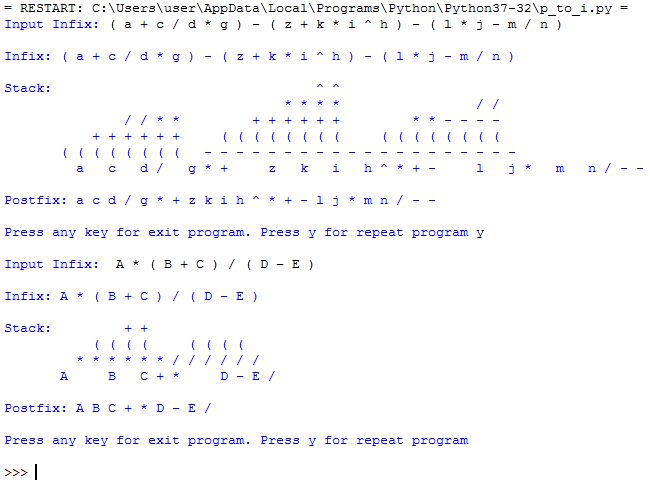
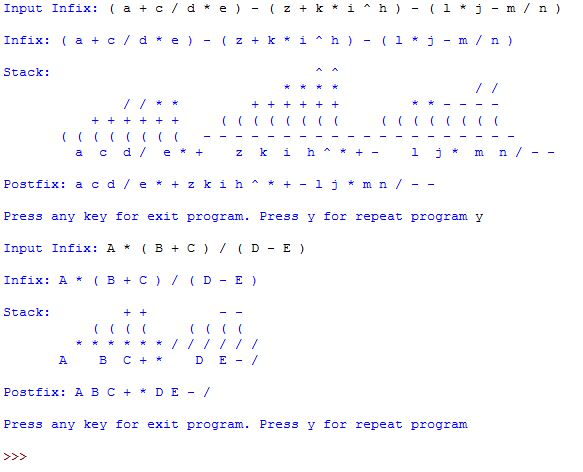
Update

diff --git a/infix_postfix.py b/infix_postfix.py
@@ -46,15 +46,15 @@ def cetak_postfix(postfix):
     text = "Stack: "
     print(' '*len(text), end="")
     for i in postfix:
-        print(i, end = " ")
+        print(i, end=' ')
     print()
     print()
     final_postfix(postfix)
-    
+     
 def final_postfix(postfx):
     print("Postfix: ", end = "")
     for i in postfx:
-        if i == ' ':
+        if i == '' or i == ' ':
             continue
         print(i, end = " ")
     print()
@@ -93,7 +93,7 @@ def infix_to_postfix(infix_expr):
             while not stack == [] and operator(stack[0]) >= operator(infix):
                 postfix.append(stack.pop(0))
             stack.insert(0, infix)
-            postfix.append(' ')
+            postfix.append('')
         elif infix == ')':
             top_stack = stack.pop(0)
             while top_stack != '(':
